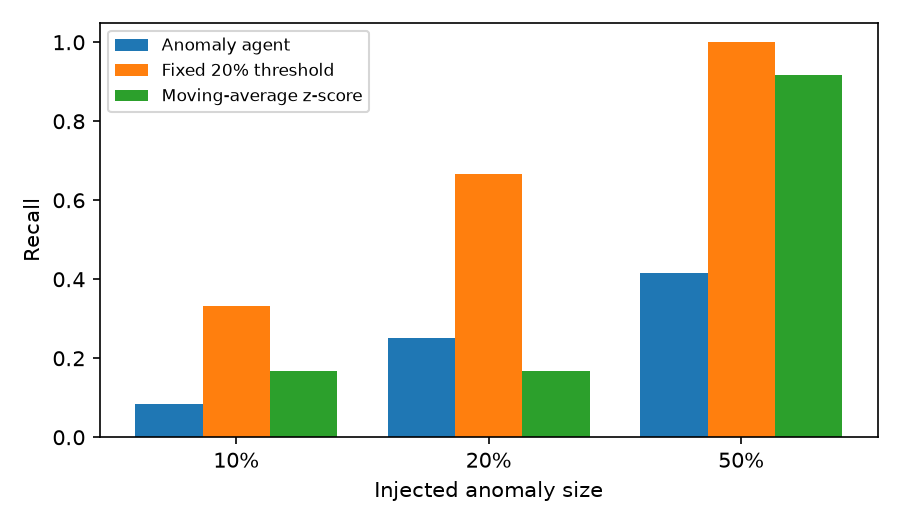
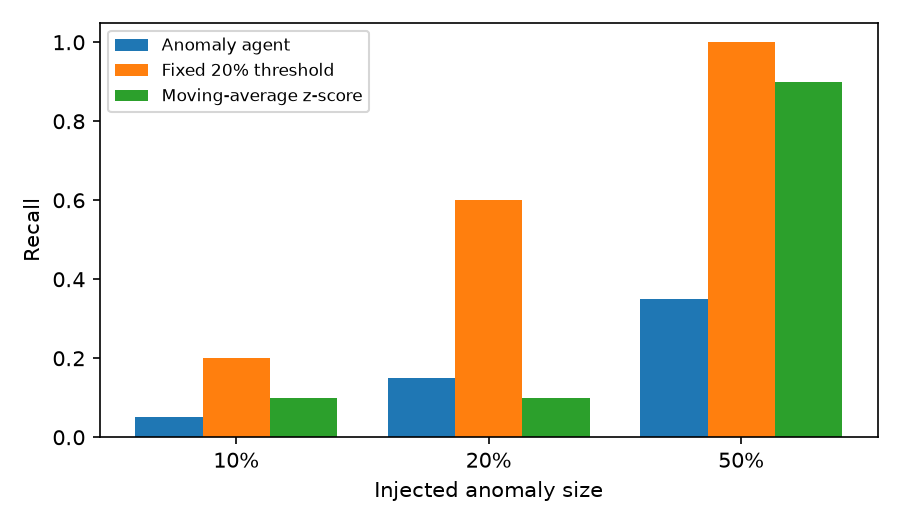
docs: evaluation report for the baseline detector

diff --git a/evaluation/report.md b/evaluation/report.md
@@ -1,34 +1,36 @@
 # Evaluation report
 
-Metric: **sales** (daily total), dataset `data/dataco_tidy.csv`. Replay window 2017-02-02 to 2017-09-30 (241 days). Each anomaly type and size was injected at 3 dates (2017-02-28, 2017-08-06, 2017-09-23). Seed 42.
+Metric: **sales** (daily total), dataset `data/dataco_tidy.csv`. Replay window 2017-02-02 to 2017-09-30 (241 days). Each anomaly type and size was injected at 5 dates (2017-02-09, 2017-02-28, 2017-03-20, 2017-08-06, 2017-09-23). Seed 42.
 
 Each run replays the pipeline day by day: on every date the method only sees data up to that date.
+
+Natural day-to-day noise in this series is about 10.7% (robust spread around the same-weekday median). Injected sizes as a multiple of that noise: 10% = 0.9x, 20% = 1.9x, 50% = 4.7x.
 
 ## Results against targets
 
 | Target | Goal | Result | Status |
 |---|---|---|---|
-| Recall, injected anomalies of 20% or more | >= 0.85 | 0.33 | missed |
+| Recall, injected anomalies of 20% or more | >= 0.85 | 0.25 | missed |
 | False alarms per 100 clean days | <= 1 | 1.24 | missed |
-| Median detection delay in days (20% or more) | <= 2 | 2.0 | met |
-| Top-1 attribution accuracy | >= 0.8 | 0.40 | missed |
+| Median detection delay in days (20% or more) | <= 2 | 1.0 | met |
+| Top-1 attribution accuracy | >= 0.8 | 1.00 | met |
 
 ## Detection by anomaly type and size (anomaly agent)
 
 | Type | Size | Cases | Recall | Precision | F1 | Median delay (days) |
 |---|---|---|---|---|---|---|
-| spike | 10% | 3 | 0% | n/a | 0.00 | n/a |
-| spike | 20% | 3 | 0% | n/a | 0.00 | n/a |
-| spike | 50% | 3 | 0% | n/a | 0.00 | n/a |
-| drop | 10% | 3 | 0% | n/a | 0.00 | n/a |
-| drop | 20% | 3 | 0% | n/a | 0.00 | n/a |
-| drop | 50% | 3 | 0% | n/a | 0.00 | n/a |
-| level_shift | 10% | 3 | 33% | 100% | 0.50 | 7.0 |
-| level_shift | 20% | 3 | 67% | 100% | 0.80 | 2.5 |
-| level_shift | 50% | 3 | 100% | 100% | 1.00 | 1.0 |
-| gradual_drift | 10% | 3 | 0% | n/a | 0.00 | n/a |
-| gradual_drift | 20% | 3 | 33% | 100% | 0.50 | 7.0 |
-| gradual_drift | 50% | 3 | 67% | 100% | 0.80 | 4.0 |
+| spike | 10% | 5 | 0% | n/a | 0.00 | n/a |
+| spike | 20% | 5 | 0% | n/a | 0.00 | n/a |
+| spike | 50% | 5 | 0% | n/a | 0.00 | n/a |
+| drop | 10% | 5 | 0% | n/a | 0.00 | n/a |
+| drop | 20% | 5 | 0% | n/a | 0.00 | n/a |
+| drop | 50% | 5 | 0% | n/a | 0.00 | n/a |
+| level_shift | 10% | 5 | 20% | 100% | 0.33 | 7.0 |
+| level_shift | 20% | 5 | 40% | 100% | 0.57 | 2.5 |
+| level_shift | 50% | 5 | 100% | 100% | 1.00 | 1.0 |
+| gradual_drift | 10% | 5 | 0% | n/a | 0.00 | n/a |
+| gradual_drift | 20% | 5 | 20% | 100% | 0.33 | 7.0 |
+| gradual_drift | 50% | 5 | 40% | 100% | 0.57 | 4.0 |
 
 Recall is per injected case; precision is per alert raised that was not already present on clean data.
 
@@ -37,17 +39,17 @@ Recall is per injected case; precision is per alert raised that was not already 
 | Type | Size | Anomaly agent | Fixed 20% threshold | Moving-average z-score |
 |---|---|---|---|---|
 | spike | 10% | 0% | 0% | 0% |
-| spike | 20% | 0% | 33% | 0% |
+| spike | 20% | 0% | 20% | 0% |
 | spike | 50% | 0% | 100% | 100% |
 | drop | 10% | 0% | 0% | 0% |
-| drop | 20% | 0% | 67% | 0% |
+| drop | 20% | 0% | 80% | 0% |
 | drop | 50% | 0% | 100% | 100% |
-| level_shift | 10% | 33% | 100% | 33% |
-| level_shift | 20% | 67% | 100% | 33% |
+| level_shift | 10% | 20% | 60% | 20% |
+| level_shift | 20% | 40% | 100% | 20% |
 | level_shift | 50% | 100% | 100% | 100% |
-| gradual_drift | 10% | 0% | 33% | 33% |
-| gradual_drift | 20% | 33% | 67% | 33% |
-| gradual_drift | 50% | 67% | 100% | 67% |
+| gradual_drift | 10% | 0% | 20% | 20% |
+| gradual_drift | 20% | 20% | 40% | 20% |
+| gradual_drift | 50% | 40% | 100% | 60% |
 
 ![Recall by anomaly size](recall_by_size.png)
 
@@ -63,14 +65,14 @@ The clean series is the real DataCo history, so genuine anomalies in it count as
 
 ## Attribution accuracy
 
-A segment's value on one day was scaled by 50% in 5 cases, and the attribution engine was asked to explain the resulting move in the total.
+In 9 cases one segment's value on one day was scaled so that the total moved by 30% (the size of anomaly that raises an alert), and the attribution engine was asked to explain the move.
 
 | Measure | Accuracy |
 |---|---|
-| Injected segment is the top contributor within its own dimension | 40% |
-| Injected segment is the top contributor of the headline story | 0% |
+| Injected segment is the top contributor within its own dimension | 100% |
+| Injected segment is the top contributor of the headline story | 11% |
 
-The headline story picks the dimension where one segment explains the most. DataCo dimensions are partly nested (a region sits inside a market), so a parent segment can win that choice.
+The headline story picks the dimension whose top segment moved the most. DataCo dimensions are partly nested (a region sits inside a market), so a parent segment can win that choice.
 
 ## Limits
 
